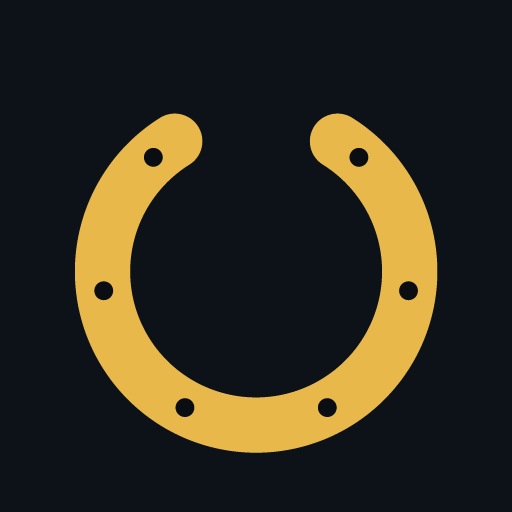
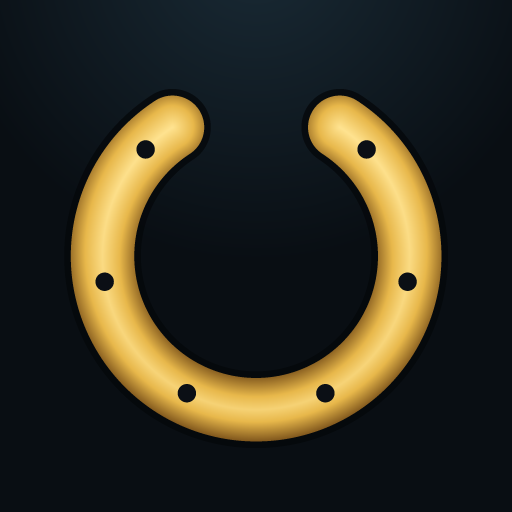
chore(pwa): アイコンを金属質感の蹄鉄へ刷新＋SWキャッシュ v2
- tools/make-icons.js を刷新：芯が明るく縁が暗いチューブ状の金属陰影／黄昏ラジアル背景／
  縁取り／釘穴6個／マスカブル安全域。192pxでも崩れないことを確認。
- sw.js の CACHE を hizumeoto-v2 へ（アイコン・HTML更新を既存PWAへ確実に反映）。

Changed region(s): [[0.125, 0.1875, 0.875, 0.9062]]

diff --git a/jockey-sim/tools/make-icons.js b/jockey-sim/tools/make-icons.js
@@ -26,29 +26,45 @@ function encodePNG(w, h, rgba) {
   return Buffer.concat([sig, chunk("IHDR", ihdr), chunk("IDAT", idat), chunk("IEND", Buffer.alloc(0))]);
 }
 
-// --- 蹄鉄を描く（4xスーパーサンプリングで縁を滑らかに） ---
-const BG = [0x0c, 0x12, 0x18], GOLD = [0xe8, 0xb8, 0x4b], HOLE = [0x0a, 0x0e, 0x12];
+// --- 蹄鉄を描く（金属の陰影＋黄昏背景＋縁取り＋釘穴。4xスーパーサンプリング） ---
 const DEG = Math.PI / 180;
+const clamp = (v, a, b) => v < a ? a : v > b ? b : v;
+const lerp = (a, b, t) => [a[0] + (b[0] - a[0]) * t, a[1] + (b[1] - a[1]) * t, a[2] + (b[2] - a[2]) * t];
+// 黄昏のラジアル背景（ゲーム本体の radial-gradient at 50% -10% に合わせる）
+const BG_TOP = [0x1a, 0x2b, 0x36], BG_BOT = [0x09, 0x0e, 0x13];
+// 金（芯=ハイライト→縁=暗）。ゲームの --gold #e8b84b を中間色に
+const G_HI = [0xff, 0xe3, 0x90], G_MID = [0xe8, 0xb8, 0x4b], G_LO = [0x7c, 0x53, 0x1b];
+const OUTLINE = [0x05, 0x08, 0x0b], HOLE = [0x0b, 0x0f, 0x15];
+
+// 蹄鉄への帰属と「縁からの厚み」e(0=芯..1=縁)を返す
+function shoeAt(x, y, cx, cy, R, halfW, gap, heels) {
+  const d = Math.hypot(x - cx, y - cy);
+  const fromTop = Math.abs(Math.atan2(y - cy, x - cx) / DEG + 90);
+  let t = Infinity, member = false;
+  if (fromTop > gap / 2) { const dd = Math.abs(d - R); if (dd < halfW) { member = true; t = dd; } }   // リング本体（上は開ける）
+  for (const a of heels) { const hc = Math.hypot(x - (cx + Math.cos(a * DEG) * R), y - (cy + Math.sin(a * DEG) * R)); if (hc < halfW && hc < t) { member = true; t = hc; } } // ヒール
+  return member ? { member: true, e: t / halfW } : { member: false };
+}
+
 function draw(size) {
-  const SS = 4, S = size * SS;
-  const buf = Buffer.alloc(S * S * 4);
-  const cx = S / 2, cy = S * 0.53, R = S * 0.30, W = S * 0.108, gap = 64;  // 半径/太さ/上の開き角
+  const SS = 4, S = size * SS, buf = Buffer.alloc(S * S * 4);
+  const cx = S * 0.5, cy = S * 0.50, R = S * 0.30, W = S * 0.124, hw = W / 2, gap = 66, edge = S * 0.013;
   const heels = [-90 + gap / 2, -90 - gap / 2];
+  const holes = []; for (let k = 0; k < 6; k++) { const a = -90 + (gap / 2 + 13) + k * ((360 - gap - 26) / 5); holes.push([cx + Math.cos(a * DEG) * R, cy + Math.sin(a * DEG) * R]); }
   for (let y = 0; y < S; y++) for (let x = 0; x < S; x++) {
     const i = (y * S + x) * 4;
-    let col = BG;
-    const dx = x - cx, dy = y - cy, d = Math.hypot(dx, dy);
-    const ang = Math.atan2(dy, dx) / DEG;                 // 右=0,下=90,上=-90
-    const fromTop = Math.abs(ang + 90);
-    if (Math.abs(d - R) < W / 2 && fromTop > gap / 2) col = GOLD;   // リング本体（上は開ける）
-    for (const a of heels) {                              // ヒール（両端の丸み）
-      if (Math.hypot(x - (cx + Math.cos(a * DEG) * R), y - (cy + Math.sin(a * DEG) * R)) < W / 2) col = GOLD;
-    }
-    if (col === GOLD) {                                   // 釘穴
-      for (let k = 0; k < 6; k++) {
-        const a = -90 + (gap / 2 + 10) + k * ((360 - gap - 20) / 5);
-        if (Math.hypot(x - (cx + Math.cos(a * DEG) * R), y - (cy + Math.sin(a * DEG) * R)) < W * 0.17) col = HOLE;
-      }
+    // 背景：上中央を光源にした黄昏グラデーション
+    const gd = Math.hypot((x - S * 0.5) / (S * 0.62), (y + S * 0.10) / (S * 0.62));
+    let col = lerp(BG_TOP, BG_BOT, clamp(gd, 0, 1));
+    const s = shoeAt(x, y, cx, cy, R, hw, gap, heels);
+    if (s.member) {
+      const core = 1 - s.e;                               // 0縁..1芯
+      const vert = clamp(1.12 - (y / S) * 1.22, 0, 1);    // 上ほど明るい（金属の照り）
+      const m = clamp(core * 0.76 + vert * 0.30, 0, 1);
+      col = m < 0.5 ? lerp(G_LO, G_MID, m / 0.5) : lerp(G_MID, G_HI, (m - 0.5) / 0.5);
+      for (const [hx, hy] of holes) { if (Math.hypot(x - hx, y - hy) < W * 0.145) { col = HOLE; break; } } // 釘穴
+    } else if (shoeAt(x, y, cx, cy, R, hw + edge, gap, heels).member) {
+      col = lerp(col, OUTLINE, 0.8);                      // 縁取り（背景から分離）
     }
     buf[i] = col[0]; buf[i + 1] = col[1]; buf[i + 2] = col[2]; buf[i + 3] = 255;
   }

diff --git a/jockey-sim/sw.js b/jockey-sim/sw.js
@@ -1,7 +1,7 @@
 // Service Worker：アプリシェルをキャッシュしオフライン動作＆インストール可能に。
 //   相対パスで記述（GitHub Pages のサブパス /<repo>/ でも壊れない）。
 //   キャッシュを更新したい時は CACHE のバージョンを上げる。
-const CACHE = "hizumeoto-v1";
+const CACHE = "hizumeoto-v2";
 const SHELL = [
   "./",
   "./index.html",
